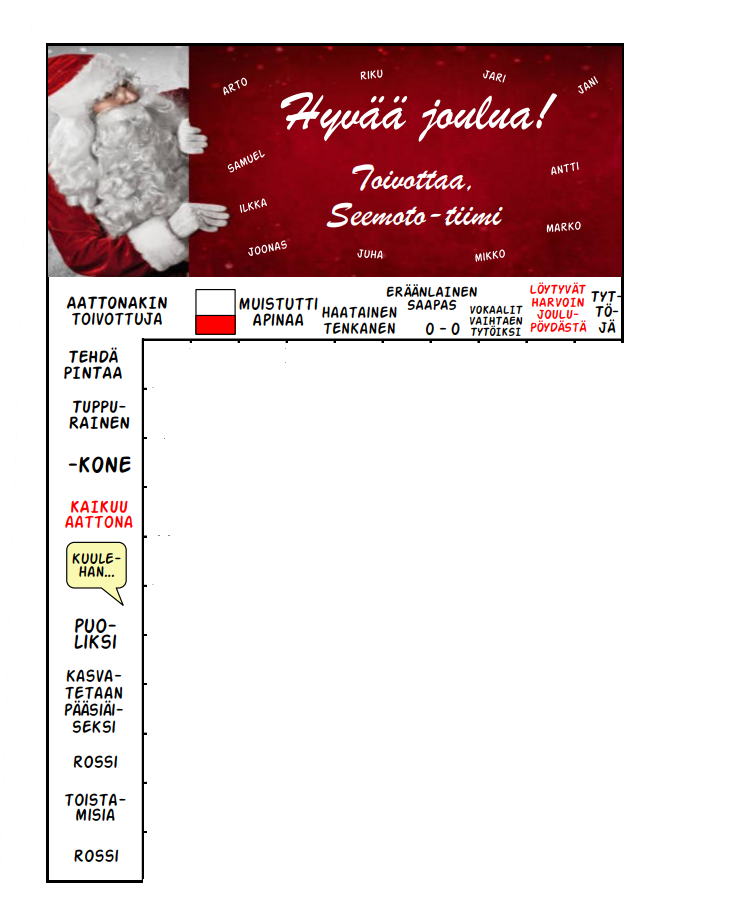
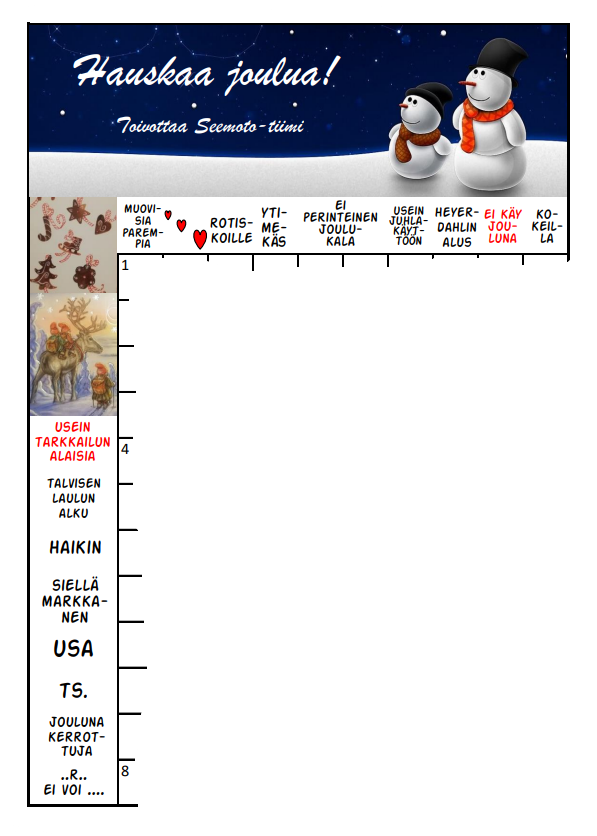
Muutettu taustakuva oikeaan

diff --git a/src/CrosswordGrid.css b/src/CrosswordGrid.css
@@ -10,9 +10,9 @@
   position: absolute;
   top: 50%; /* Center vertically */
   left: 50%; /* Center horizontally */
-  transform: translate(-50%, -33%); /* Center the element */
-  height: 79.6vw; /* Height relative to viewport width */
-  width: 66.3vw; /* Width relative to viewport width */
+  transform: translate(-50%, -43%); /* Center the element */
+  height: 62.6vw; /* Height relative to viewport width */
+  width: 46.3vw; /* Width relative to viewport width */
   background-image: url('assets/images/tausta.png');
   background-repeat: no-repeat;
   background-size: cover;
@@ -20,11 +20,11 @@
 }
 .grid-container {
   display: grid;
-  grid-template-columns: repeat(10, 4.3vw);
-  grid-template-rows: repeat(11, 4.42vw);
+  grid-template-columns: repeat(10, 3.4vw);
+  grid-template-rows: repeat(12, 3.5vw);
   position: absolute;
-  top: calc(50% + 14.6vw); /* Adjust 20px to whatever value you need to move it down */
-  left: calc(50% + 0.9vw); /* Adjust 20px to whatever value you need to move it right */
+  top: calc(50% + 9.6vw); /* Adjust 20px to whatever value you need to move it down */
+  left: calc(50% + 2.9vw); /* Adjust 20px to whatever value you need to move it right */
   transform: translate(-50%, -50%); /* This centers the grid based on its own size */
 }
 

diff --git a/src/CrosswordGrid.jsx b/src/CrosswordGrid.jsx
@@ -36,7 +36,7 @@ function createGridVectors() {
     const grid = [];
     const specialItems = [15, 25, 45, 57, 58, 60, 62, 64, 65, 66, 75, 85, 105];
     
-    const gridSize = 110; // Assuming a grid of size 110
+    const gridSize = 120; // Assuming a grid of size 110
 
     for (let i = 1; i <= gridSize; i++) {
         let isSpecial = specialItems.includes(i);

diff --git a/vite.config.js b/vite.config.js
@@ -6,7 +6,7 @@ const isProduction = process.env.NODE_ENV === 'production';
 
 export default defineConfig({
   // Conditionally set the base path for GitHub Pages deployment
-  base: '/ristikko2021/',
+  base: '/ristikko2022/',
 
   plugins: [react()],
   server: {
